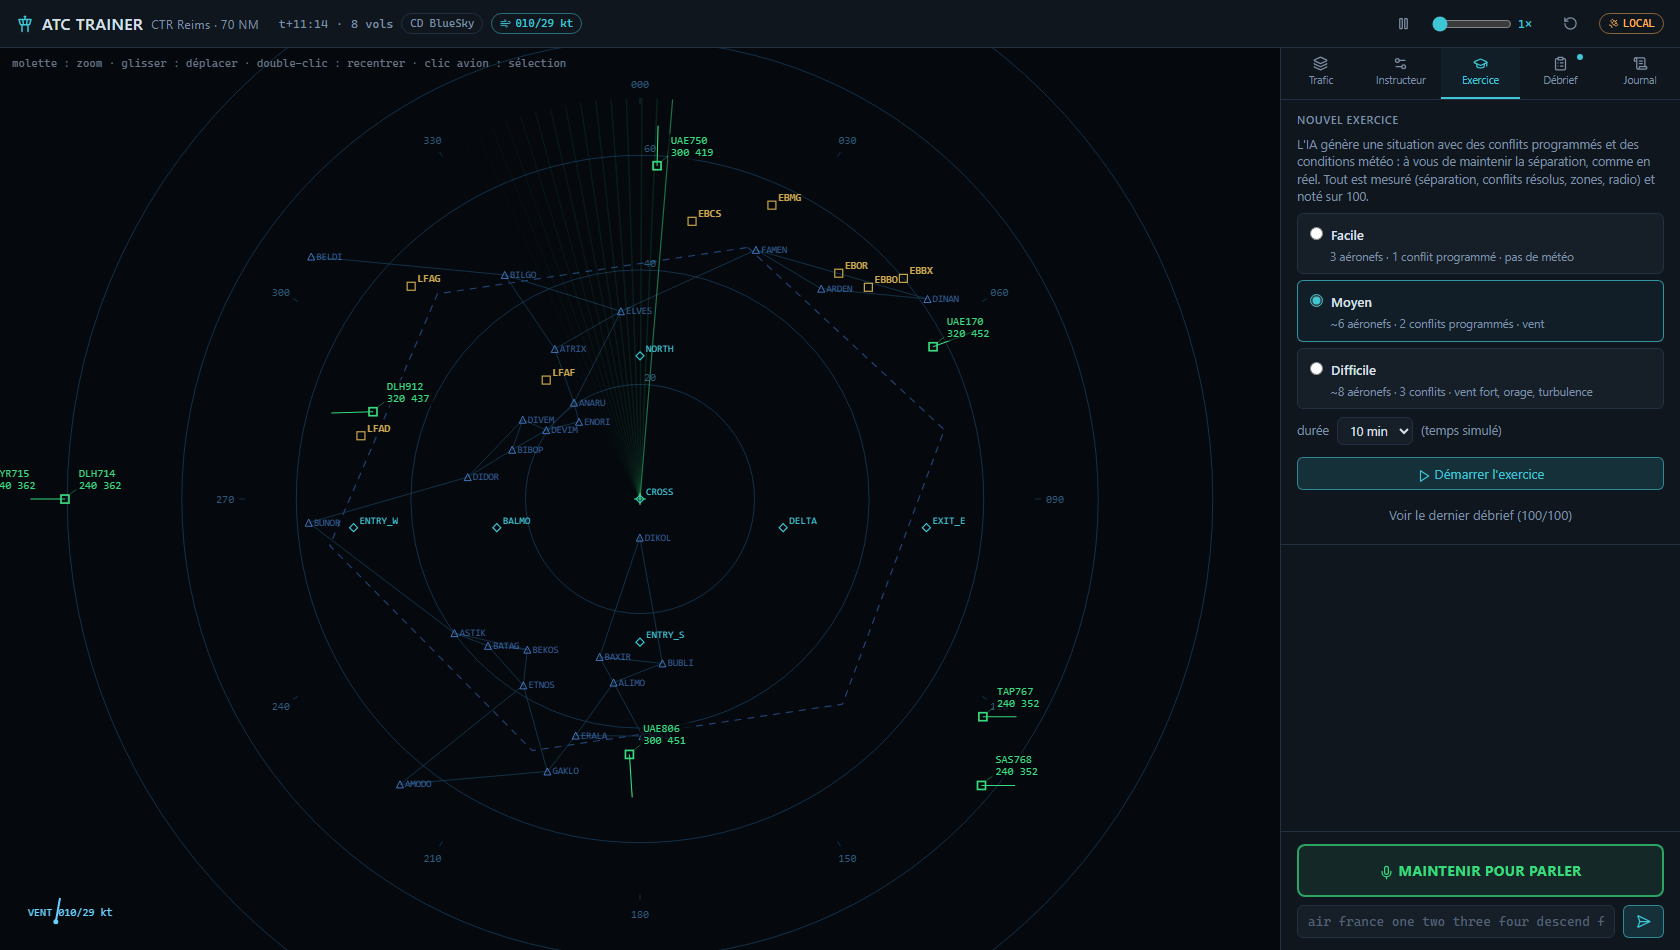
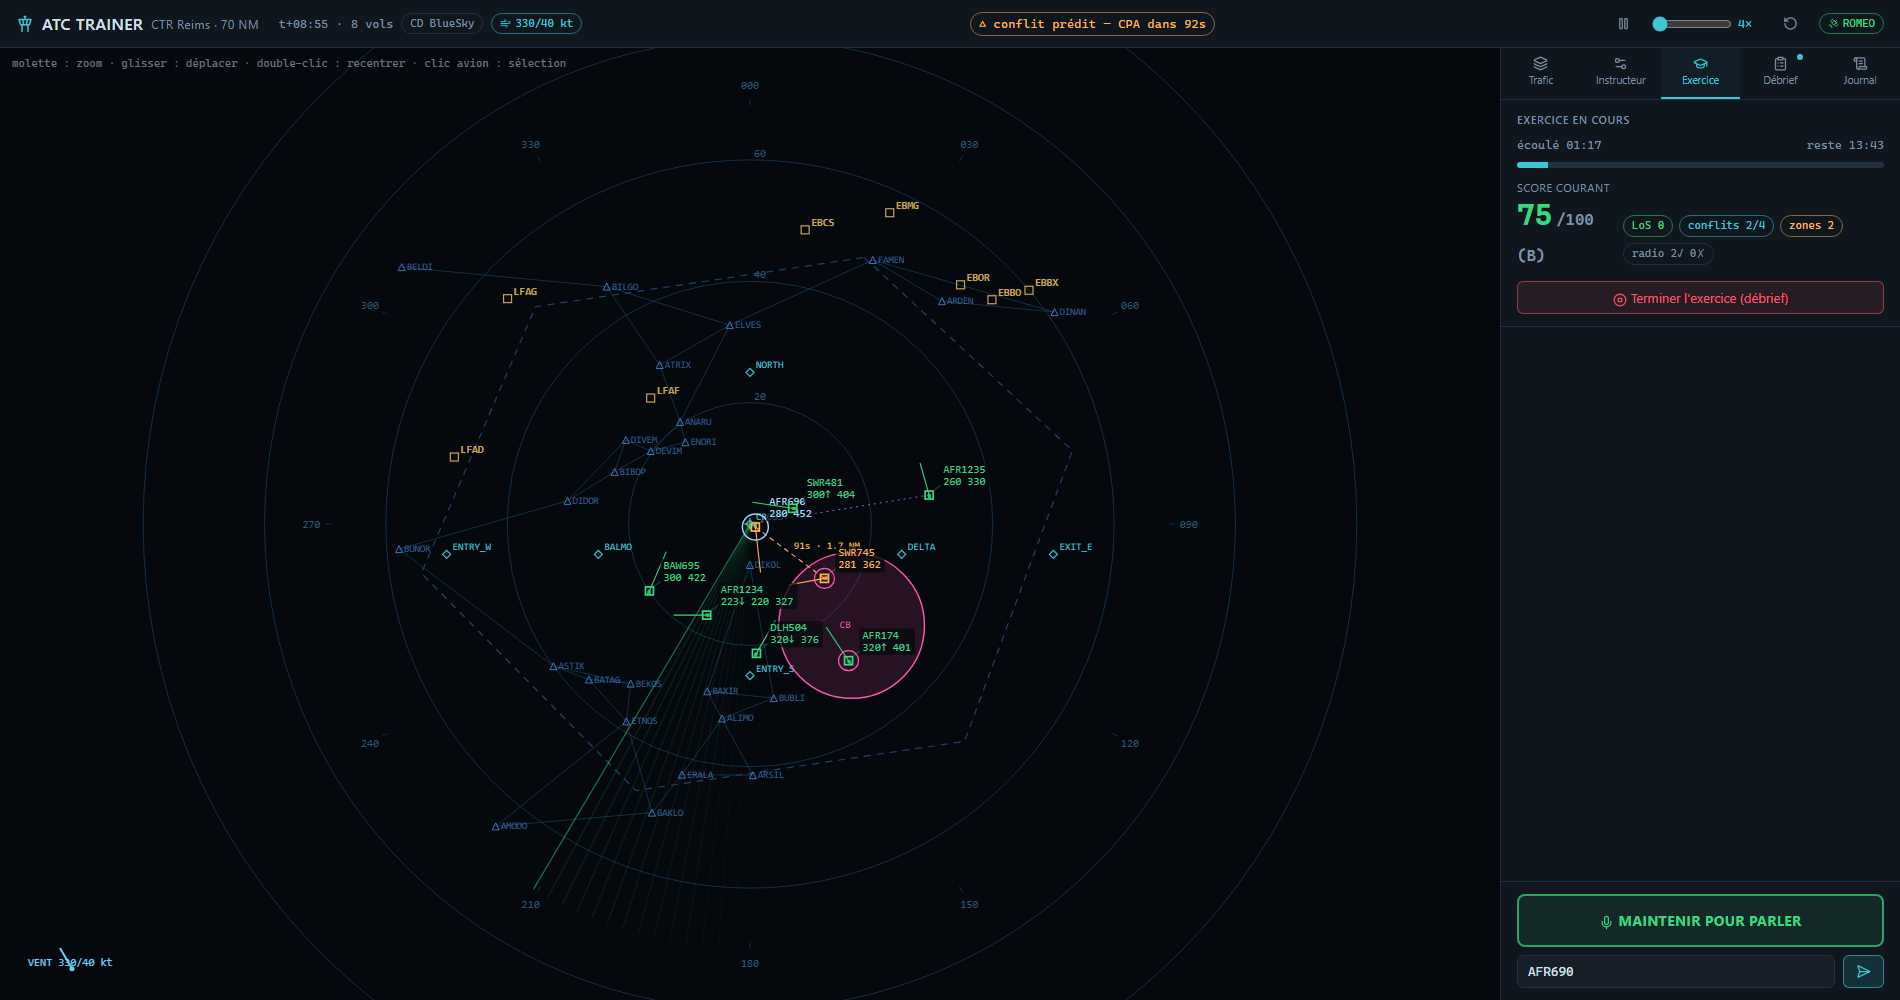
docs: refresh all README media with the new interface
- New hero GIF (docs/assets/app_radar_live.gif, ~12 s of live radar: sweep,
  trails, programmed conflict with time-to-CPA, storm cell, wind, strips).
- Regenerated stills at 1900x1000 with a staged Difficile exercise: radar +
  strips with an aircraft selected, exercise tab with objectives and live
  score, debrief with score breakdown and separation chart.
- tools/capture_media.py: reusable Playwright script that stages the scene
  through the API and regenerates every visual in one run.
- Removed the superseded matplotlib-era radar images/GIFs from the README and
  the tree (still available in git history); Demos section rewritten around
  the training interface.

diff --git a/tools/capture_media.py b/tools/capture_media.py
@@ -1,0 +1,151 @@
+"""
+Capture des visuels du README (PNG + GIF anime) sur l'application EN MARCHE.
+============================================================================
+Met en scene une situation riche via l'API (exercice Difficile : conflits
+programmes, vent, cellule orageuse), selectionne un avion, puis capture :
+
+  - docs/assets/app_radar.png        radar + strips (onglet Trafic)
+  - docs/assets/app_exercice.png     exercice en cours (objectifs + score live)
+  - docs/assets/app_debrief.png      debrief (score, barème, courbe de separation)
+  - docs/assets/app_radar_live.gif   ~12 s de radar vivant (balayage, trainees)
+
+Prerequis : l'application tournant sur http://127.0.0.1:8000 et
+            pip install playwright && playwright install chromium
+
+Execution : src\\bluesky-env\\Scripts\\python.exe tools\\capture_media.py
+"""
+import io
+import os
+import time
+
+import requests
+from PIL import Image
+from playwright.sync_api import sync_playwright
+
+BASE = "http://127.0.0.1:8000"
+HERE = os.path.dirname(os.path.abspath(__file__))
+ASSETS = os.path.join(os.path.dirname(HERE), "docs", "assets")
+
+VIEW_W, VIEW_H = 1900, 1000      # fenetre de capture
+SIDEBAR_W, TOPBAR_H = 400, 48    # geometrie de l'interface (App.tsx / TopBar.tsx)
+RANGE_NM = 70.0
+
+GIF_FRAMES = 70
+GIF_WIDTH = 1040
+GIF_FRAME_MS = 150
+
+
+def api(method, path, **kw):
+    r = requests.request(method, BASE + path, timeout=120, **kw)
+    r.raise_for_status()
+    return r.json() if r.content else {}
+
+
+def stage_scene():
+    """Exercice Difficile + une route directe + une descente : scene riche."""
+    api("post", "/api/health/refresh")
+    api("post", "/api/sim/reset")
+    time.sleep(1.5)
+    ex = api("post", "/api/exercise/start",
+             json={"difficulty": "difficile", "duration_min": 15, "seed": 7})
+    conflict_cs = {cs for c in ex["conflicts_built"] for cs in c["pair"]}
+    time.sleep(2.0)
+
+    st = api("get", "/api/state")
+    fillers = [a["id"] for a in st["aircraft"] if a["id"] not in conflict_cs]
+    if fillers:                                   # route FMS visible au radar
+        api("post", "/api/command", json={"text": f"{fillers[0]} proceed direct CROSS"})
+    if len(fillers) > 1:                          # fleche de descente sur les strips
+        api("post", "/api/command", json={"text": f"{fillers[1]} descend flight level two two zero"})
+
+    # avance acceleree jusqu'a l'apparition des conflits predits (lignes ambre)
+    api("post", "/api/sim/speed", json={"value": 6})
+    for _ in range(40):
+        time.sleep(2)
+        st = api("get", "/api/state")
+        if st.get("predicted"):
+            break
+    api("post", "/api/sim/speed", json={"value": 4})
+    return st
+
+
+def select_aircraft_click(page, state):
+    """Clique sur un avion en conflit predit -> anneau de selection cyan."""
+    target = None
+    pred = state.get("predicted") or []
+    if pred:
+        target = next((a for a in state["aircraft"] if a["id"] == pred[0]["pair"][0]), None)
+    target = target or (state["aircraft"][0] if state["aircraft"] else None)
+    if not target:
+        return
+    w, h = VIEW_W - SIDEBAR_W, VIEW_H - TOPBAR_H
+    scale = (min(w, h) / 2 - 30) / (RANGE_NM * 1.05)
+    px = w / 2 + target["x"] * scale
+    py = h / 2 - target["y"] * scale + TOPBAR_H
+    if 0 < px < w and TOPBAR_H < py < VIEW_H:
+        page.mouse.click(px, py)
+
+
+def shoot(page, tab_label, path, settle_ms=1800):
+    """Bascule d'onglet par CLIC (un changement de hash seul ne re-rend pas la SPA)."""
+    page.locator("nav button", has_text=tab_label).click()
+    page.wait_for_timeout(settle_ms)
+    page.screenshot(path=path)
+    print(f"  [png] {os.path.relpath(path, os.path.dirname(HERE))}"
+          f" ({os.path.getsize(path) // 1024} ko)")
+
+
+def record_gif(page, path):
+    """Frames pleine page -> GIF optimise (reduit a GIF_WIDTH px de large)."""
+    frames = []
+    for _ in range(GIF_FRAMES):
+        t0 = time.time()
+        png = page.screenshot()
+        im = Image.open(io.BytesIO(png)).convert("RGB")
+        ratio = GIF_WIDTH / im.width
+        im = im.resize((GIF_WIDTH, round(im.height * ratio)), Image.LANCZOS)
+        frames.append(im.quantize(colors=128, dither=Image.NONE))
+        time.sleep(max(0.0, GIF_FRAME_MS / 1000 - (time.time() - t0)))
+    frames[0].save(path, save_all=True, append_images=frames[1:],
+                   duration=GIF_FRAME_MS, loop=0, optimize=True)
+    print(f"  [gif] {os.path.relpath(path, os.path.dirname(HERE))}"
+          f" ({os.path.getsize(path) // 1024} ko, {len(frames)} images)")
+
+
+def main():
+    os.makedirs(ASSETS, exist_ok=True)
+    print("[1] mise en scene (exercice Difficile + meteo + conflits)...")
+    state = stage_scene()
+    npred = len(state.get("predicted") or [])
+    print(f"    {len(state['aircraft'])} avions, {npred} conflit(s) predit(s)")
+
+    with sync_playwright() as pw:
+        browser = pw.chromium.launch()
+        page = browser.new_page(viewport={"width": VIEW_W, "height": VIEW_H},
+                                device_scale_factor=1)
+        print("[2] stills...")
+        page.goto(f"{BASE}/#trafic")
+        page.wait_for_timeout(2500)
+        select_aircraft_click(page, api("get", "/api/state"))
+        page.wait_for_timeout(700)
+        page.screenshot(path=os.path.join(ASSETS, "app_radar.png"))
+        print("  [png] docs/assets/app_radar.png")
+        shoot(page, "Exercice", os.path.join(ASSETS, "app_exercice.png"))
+
+        print("[3] gif du radar vivant...")
+        shoot_back = page.locator("nav button", has_text="Trafic")
+        shoot_back.click()
+        page.wait_for_timeout(1200)
+        record_gif(page, os.path.join(ASSETS, "app_radar_live.gif"))
+
+        print("[4] debrief...")
+        api("post", "/api/sim/speed", json={"value": 1})
+        api("post", "/api/exercise/stop")
+        time.sleep(1.5)
+        shoot(page, "Débrief", os.path.join(ASSETS, "app_debrief.png"))
+        browser.close()
+    print("[OK] visuels regeneres dans docs/assets/")
+
+
+if __name__ == "__main__":
+    main()

diff --git a/README.md b/README.md
@@ -14,7 +14,7 @@ validated command, executed in the BlueSky simulator, and answered by a synthesi
 voice. The full chain runs as a real time loop, with the AI models hosted on a GPU cluster and the
 simulator running on a local machine.
 
-![Radar control session](docs/assets/radar_session.gif)
+![ATC Trainer — live radar with programmed conflicts, storm cell and flight strips](docs/assets/app_radar_live.gif)
 
 > Internship project (10 week PoC), University of Reims Champagne-Ardenne (URCA). AI compute on the
 > ROMEO supercomputer (NVIDIA GH200, Grace-Hopper, aarch64). Author: Nicolas Marano.
@@ -105,24 +105,15 @@ multilayer safety net) are measured and discussed in
 
 ## Demos
 
-### Realistic radar scope, built from the simulator data
+### A scored exercise in progress
 
-A controller style radar scope rendered from the real BlueSky simulation state and the real
-navigation database (waypoints, airports), centered on the Reims sector. Aircraft show a velocity
-leader and a data block (callsign, flight level, ground speed).
+The control-room interface during a *Difficile* exercise: the engine has placed conflict pairs
+(amber CONF tags and dashed line with time-to-CPA), a storm cell (CB) and a 40 kt wind; the radar
+shows velocity leaders, data blocks with climb/descend trends and cleared levels, FMS routes, and
+the strip bay sorts alerts first. The live score updates in the Exercice tab while the student
+works the frequency.
 
-![Radar scope Reims](docs/assets/radar_reims.png)
-
-### Live interaction: spoken instructions deviate the aircraft
-
-Four aircraft fly straight (heading 090). Natural language instructions are sent through the
-pipeline and the aircraft deviate. Left: before. Right: after the pipeline commands.
-
-![Before and after](docs/assets/radar_live_beforeafter.png)
-
-Animated replay with the rotating radar sweep:
-
-![Live radar replay](docs/assets/radar_live.gif)
+![Exercise in progress — objectives and live scoring](docs/assets/app_exercice.png)
 
 ### Whisper fine tuning and RAG results
 